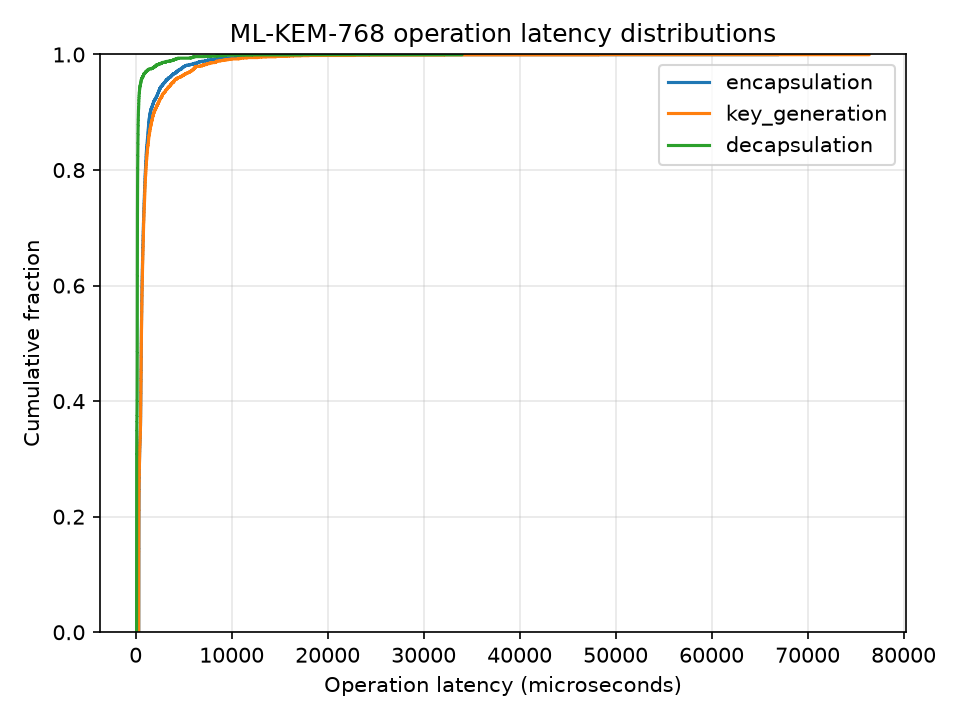
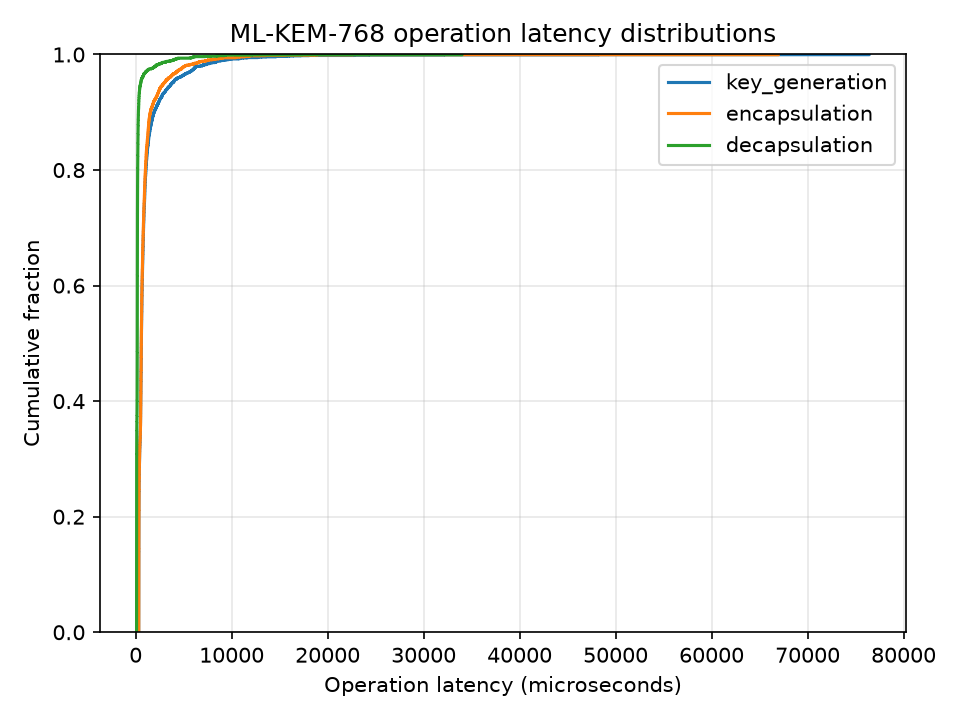
feat(analysis): refresh raw simulation data, update figures and add weekly progress report

Changed region(s): [[0.75, 0.0611, 0.9375, 0.1833], [0.1562, 0.0611, 0.2812, 0.1833]]

diff --git a/reports/PROGRESS_REPORT_2026-11-27.tex b/reports/PROGRESS_REPORT_2026-11-27.tex
@@ -1,0 +1,141 @@
+% !TeX program = xelatex
+% Biên dịch bằng pdfLaTeX hoặc XeLaTeX. Hình được vẽ trong tài liệu.
+\documentclass[11pt,a4paper]{article}
+\usepackage[margin=2.25cm,headheight=15pt]{geometry}
+\usepackage{iftex}
+\ifPDFTeX
+  \usepackage[utf8]{inputenc}
+  \usepackage[T5]{fontenc}
+\else
+  \usepackage{fontspec}
+  \setmainfont{TeX Gyre Termes}
+\fi
+\usepackage{amsmath,booktabs,tabularx,fancyhdr,pgfplots}
+\usetikzlibrary{arrows.meta}
+\pgfplotsset{compat=1.18}
+\usepackage[hidelinks]{hyperref}
+\definecolor{inkblue}{HTML}{244E72}
+\definecolor{ochre}{HTML}{97591F}
+\renewcommand{\figurename}{Hình}
+\renewcommand{\tablename}{Bảng}
+\setlength{\parindent}{0pt}
+\setlength{\parskip}{5pt}
+\renewcommand{\arraystretch}{1.2}
+\pagestyle{fancy}
+\fancyhf{}
+\fancyhead[L]{\small Lý thuyết mật mã -- Đồ án Topic 13}
+\fancyhead[R]{\small Báo cáo tiến độ tuần 11}
+\fancyfoot[L]{\small Nhóm 12 -- Topic 13 (QKD vs PQC)}
+\fancyfoot[R]{\small Trang \thepage}
+\renewcommand{\footrulewidth}{0.4pt}
+
+\begin{document}
+\begin{center}
+{\bfseries ĐẠI HỌC BÁCH KHOA HÀ NỘI\\TRƯỜNG ĐIỆN -- ĐIỆN TỬ}\\[10pt]
+{\Large\bfseries BÁO CÁO TIẾN ĐỘ THỰC HIỆN TUẦN 11}\\[6pt]
+{\bfseries ĐỀ TÀI: QKD VERSUS POST-QUANTUM CRYPTOGRAPHY:\\
+SECURITY MODELS AND SYSTEM TRADE-OFFS}
+\end{center}
+
+\begin{tabularx}{\linewidth}{@{}lX@{}}
+\textbf{Đơn vị thực hiện} & Nhóm 12 \\
+\textbf{Thành viên nhóm} & 1. Trần Anh Đức \quad 2. Đỗ Phương Điệp \quad 3. Vũ Việt Thiện \newline
+4. Đào Ngọc Tuấn Linh \quad 5. Trần Xuân Kiên \\
+\textbf{Kỳ báo cáo} & 25--27/11/2026, đối chiếu báo cáo ngày 24/11/2026 \\
+\textbf{Môn học} & Lý thuyết mật mã \\
+\textbf{Giảng viên hướng dẫn} & PGS.TS. Hà Duyên Trung và ThS. Phương Xuân Quang \\
+\textbf{Kho lưu trữ Git} & \href{https://github.com/Duc-HUST-ET1/QKD_vs_PQC}{\texttt{QKD\_vs\_PQC}}, nhánh kiểm tra \texttt{feature/system-tradeoffs}, commit \texttt{66e687c} \\
+\end{tabularx}
+
+\section{Mục tiêu trọng tâm và tóm tắt điều hành}
+Sau báo cáo ngày 24/11, nhóm tập trung kiểm tra liệu mỗi số liệu trong bảng tổng hợp có truy ngược được đến lần chạy đã tạo ra nó hay không. Tuần này có ba kết quả chính.
+\begin{itemize}
+\item \textbf{BB84.} Tệp dữ liệu gốc ngày 27/11 ghi thêm một lần đo thời gian vòng lặp. Bảng tổng hợp cùng ngày vẫn dùng thời gian ngày 17/11. Nhóm đã xác định bước xử lý khiến lần đo mới bị bỏ sót.
+\item \textbf{ML-KEM-768.} Từ 9.000 mẫu đã thu ngày 19/10 và 07/11, nhóm tính lại được cả ba cặp trung vị và phân vị 95 trong bảng ngày 27/11. Tuần này xác minh kết quả tổng hợp dữ liệu lịch sử.
+\item \textbf{Mã nguồn và kiểm thử.} Các sửa đổi còn ở bản làm việc khi lập báo cáo tuần 10 đã được lưu tại \href{https://github.com/Duc-HUST-ET1/QKD_vs_PQC/compare/c8166f7...146687f}{commit \texttt{146687f}} trên nhánh \texttt{feature/qkd}. Commit này bổ sung cách tách lần đo thời gian BB84, phân nhóm mẫu ML-KEM theo môi trường và ba kiểm thử hồi quy. Trên nhánh kiểm tra tuần 11, commit \texttt{66e687c} đã gỡ 21 đường dẫn tạm của pytest khỏi danh sách tệp Git theo dõi.
+\end{itemize}
+
+\newpage
+\section{Kết quả phân tích thực nghiệm và đồ thị trực quan}
+\subsection{BB84: hai lần thực thi cùng seed được đếm như thế nào?}
+Ngày 17/11 và 27/11, mô phỏng dùng seed 42, phát 100.000 tín hiệu, đặt xác suất lật bit ở 1\%, xác suất Eve can thiệp và xác suất mất tín hiệu ở 0. Mỗi lần đều giữ 49.990 bit sau đối sánh cơ sở đo và có 484 bit lỗi. Do đó QBER bằng $484/49\,990 \approx 0{,}9682\%$ và tỷ lệ bit giữ lại bằng $49{,}99\%$.
+
+\begin{figure}[ht]
+\centering
+\begin{tikzpicture}[
+  box/.style={draw=inkblue,rounded corners=2pt,align=center,inner sep=5pt,
+    text width=.36\linewidth,font=\small},
+  flow/.style={-{Stealth[length=2mm]},thick,inkblue}]
+\node[box] (old) at (-3.5,0) {CSV ngày 17/11\\Vòng lặp: 520,1261 ms};
+\node[box] (new) at (3.5,0) {CSV ngày 27/11\\Vòng lặp: 220,7783 ms};
+\node[box,fill=blue!5,text width=.62\linewidth] (dedup) at (0,-1.55)
+  {Mã tại \texttt{66e687c} duyệt các tệp theo tên,\\giữ dòng đầu khi seed và cấu hình trùng nhau};
+\node[box] (result) at (-3.5,-3.15) {Kết quả mô phỏng\\Một giá trị QBER: 0,9682\%};
+\node[box,draw=ochre] (timing) at (3.5,-3.15) {Thời gian trong bảng 27/11\\Chỉ còn 520,1261 ms của 17/11};
+\draw[flow] (old.south) -- (dedup.north west);
+\draw[flow] (new.south) -- (dedup.north east);
+\draw[flow] (dedup.south west) -- (result.north);
+\draw[flow] (dedup.south east) -- (timing.north);
+\end{tikzpicture}
+\caption{Đường đi của hai dòng BB84 trên nhánh kiểm tra. Cùng seed và cấu hình cho một kết quả QBER xác định, nhưng mỗi lần thực thi có thời gian riêng.}
+\end{figure}
+
+Hai bảng tổng hợp ngày 17/11 và 27/11 có cùng mã băm SHA-256. Chênh lệch giữa hai thời gian vòng lặp chưa đủ để kết luận tốc độ mô phỏng đã cải thiện.
+
+\subsection{ML-KEM-768: đối chiếu trung vị và phân vị 95}
+Ba tệp CSV ghi cùng môi trường Windows build 26200, Python 3.13.14 và \texttt{pqcrypto} 0.4.0. Mỗi lần chạy gồm 50 vòng khởi động và 1.000 mẫu cho mỗi thao tác. Nhóm gộp 3.000 mẫu theo từng thao tác, sắp xếp độ trễ tăng dần rồi lấy mẫu thứ 2.850 cho p95 theo phương pháp \textit{nearest rank}.
+
+\begin{figure}[ht]
+\centering
+\begin{tikzpicture}
+\begin{axis}[
+ width=.91\linewidth,height=4.8cm,
+ xmin=0,xmax=4550,ymin=0.45,ymax=3.55,ytick={1,2,3},
+ yticklabels={Mở gói khóa,Đóng gói khóa,Sinh cặp khóa},
+ xlabel={Độ trễ thao tác ($\mu$s)},xtick={0,1000,2000,3000,4000},
+ scaled x ticks=false,xticklabel style={/pgf/number format/1000 sep={\,}},
+ axis x line*=bottom,axis y line*=left,xmajorgrids,grid style={gray!25},
+ tick label style={font=\small},label style={font=\small},
+ legend style={at={(0.5,1.02)},anchor=south,draw=none,font=\small},
+ legend columns=2]
+\addplot[only marks,mark=*,inkblue,mark size=2.8pt] coordinates
+ {(163.15,1) (584.55,2) (588.90,3)};
+\addlegendentry{Trung vị}
+\addplot[only marks,mark=square*,ochre,mark size=2.8pt] coordinates
+ {(514.9,1) (2883.8,2) (3732.8,3)};
+\addlegendentry{Phân vị 95}
+\end{axis}
+\end{tikzpicture}
+\caption{Độ trễ từ ba lần chạy lịch sử, đối chiếu ngày 27/11. Sinh cặp khóa và đóng gói khóa có trung vị gần nhau (588,90 và 584,55~$\mu$s), nhưng p95 lần lượt là 3.732,8 và 2.883,8~$\mu$s. Với mở gói khóa, hai giá trị là 163,15 và 514,9~$\mu$s.}
+\end{figure}
+
+\clearpage
+\section{Đánh giá đánh đổi hệ thống}
+\begin{table}[ht]
+\centering\small
+\begin{tabularx}{\linewidth}{@{}p{.17\linewidth}XX@{}}
+\toprule
+\textbf{Tiêu chí} & \textbf{BB84 / QKD} & \textbf{ML-KEM-768 / PQC}\\
+\midrule
+Dữ liệu hiệu năng & Thời gian xử lý 100.000 tín hiệu trong vòng lặp Python. & Độ trễ sinh cặp khóa, đóng gói và mở gói trên máy đo.\\
+Ý nghĩa bảo mật & QBER mô tả tỷ lệ bit lỗi sau đối sánh cơ sở. Độ dài khóa bí mật sau xử lý còn phụ thuộc sửa lỗi và khuếch đại riêng tư. & Benchmark đo phép toán của KEM. Xác thực danh tính hai bên cần được xử lý ở tầng giao thức.\\
+Hạ tầng triển khai & Cần thiết bị, kênh lượng tử và kênh cổ điển đã xác thực. Thí nghiệm dùng mô phỏng. & Cần thư viện tương thích, tích hợp giao thức và quản lý khóa trên thiết bị đầu cuối.\\
+\bottomrule
+\end{tabularx}
+\caption{Phạm vi so sánh ở mốc tuần 11. Đánh giá độ trễ đầu-cuối, cự ly và chi phí triển khai còn cần dữ liệu theo một kịch bản chung.}
+\end{table}
+
+\textbf{Trạng thái kiểm thử.} Báo cáo tuần 10 ghi 73 kiểm thử đạt, 2 bỏ qua trên Python 3.14.2. Ngày 27/11, bộ kiểm thử tại \texttt{66e687c} trên Python 3.13.14 đạt 70, bỏ qua 2 trong 27,63 giây. Hai mốc dùng hai cây mã khác nhau. Ba kiểm thử hồi quy về nhóm dữ liệu nằm trên nhánh \texttt{feature/qkd}. Hai kiểm thử dùng ML-KEM thật bị bỏ qua ngày 27/11 do giao diện của \texttt{pqcrypto} 0.4.0 khác giao diện adapter yêu cầu.
+
+\section{Kế hoạch tiếp theo và chuẩn bị bảo vệ}
+\begin{enumerate}
+\item Rà soát \texttt{146687f} trước khi tích hợp. Với hai lần chạy cùng seed trong Hình~1, tiêu chí nghiệm thu là giữ cả hai thời gian vòng lặp và chỉ đếm một kết quả QBER.
+\item Xác minh hai kiểm thử ML-KEM trên môi trường tương thích: hai bên thu được cùng bí mật và bộ đo xuất đủ mẫu ra CSV.
+\item Gắn hình và bảng dùng cho báo cáo, slide bảo vệ với danh sách CSV, cấu hình và phiên bản mã. Hoàn tất phản biện độc lập báo cáo BB84 và các phát biểu về bảo mật.
+\end{enumerate}
+
+{\small\textbf{Nguồn dữ liệu cho các hình.} Các tệp sau nằm trong \path{data/raw/} tại máy kiểm tra.\\
+Hình 1: \path{qkd_20261117T153737_f85e2488.csv}, \path{qkd_20261127T150032_8e76e66e.csv}.\\
+Hình 2: \path{mlkem_20261019T085230_11c2a248.csv}, \path{mlkem_20261107T154257_948b90ae.csv}, \path{mlkem_20261107T154351_3af4a310.csv}.\\
+Mốc đối chiếu: \href{https://github.com/Duc-HUST-ET1/QKD_vs_PQC/blob/146687f/reports/PROGRESS_REPORT_2026-11-24.md}{báo cáo tuần 10 ngày 24/11}.}
+\end{document}
